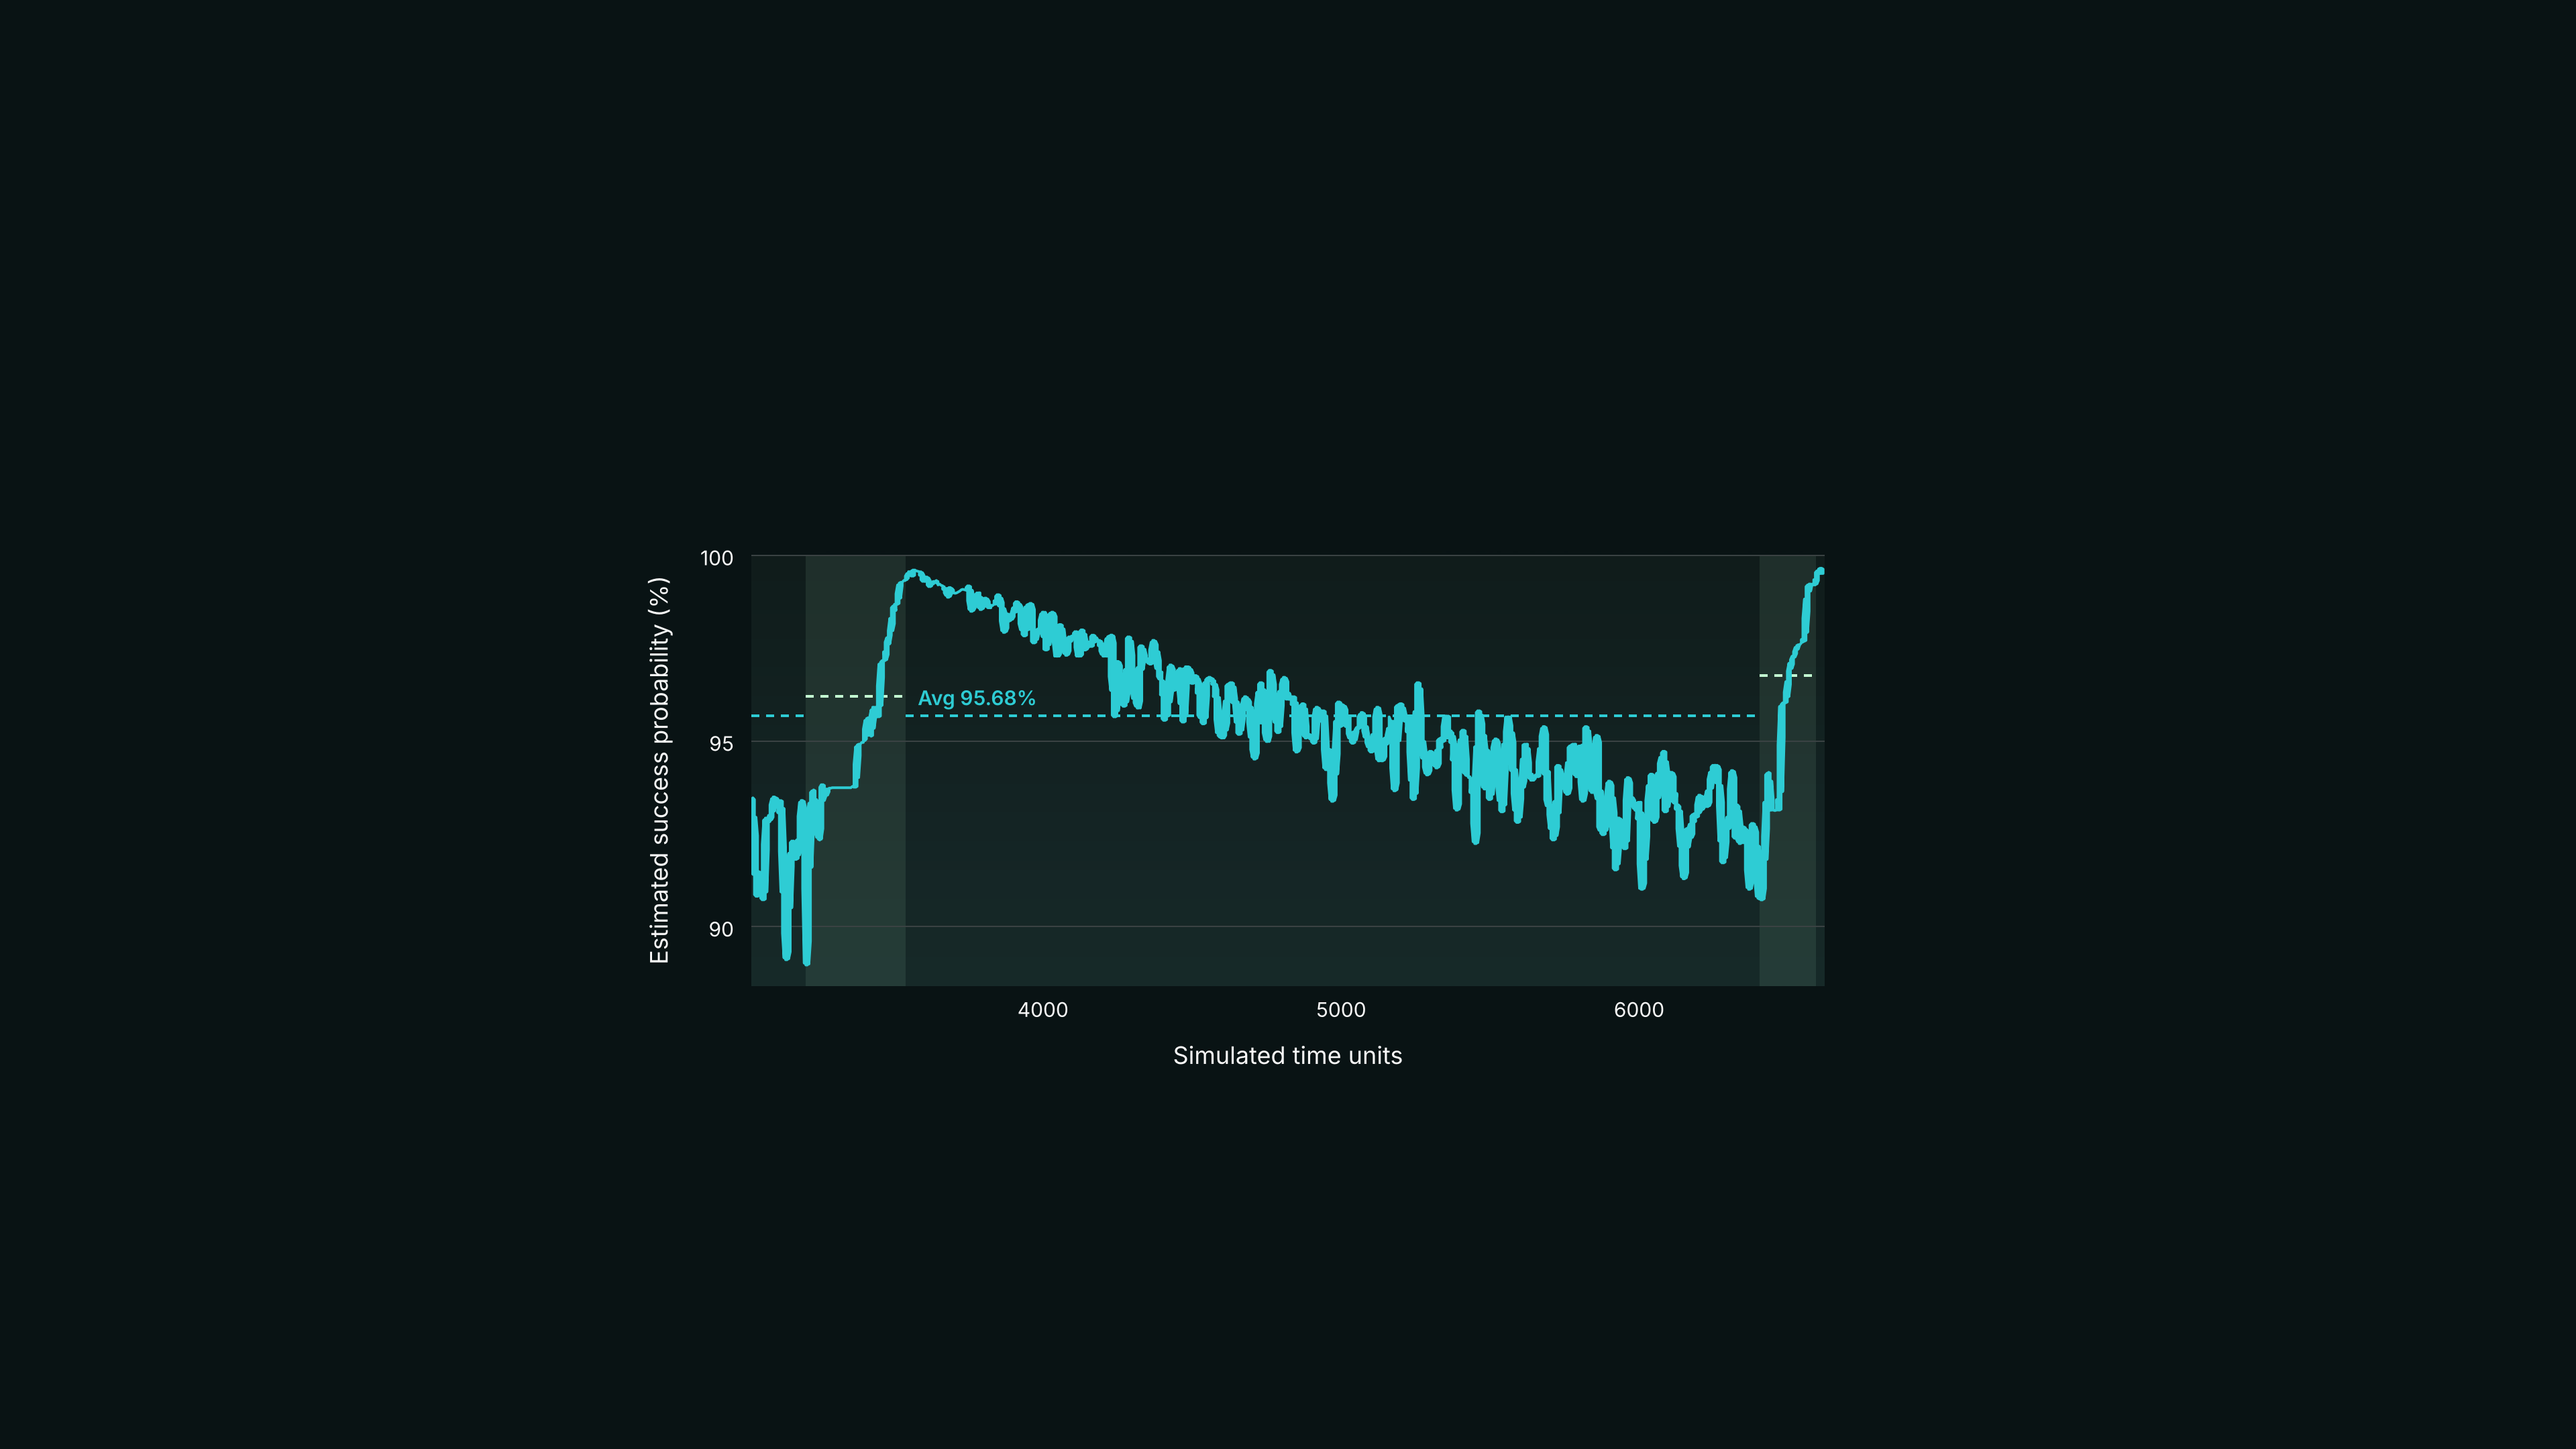
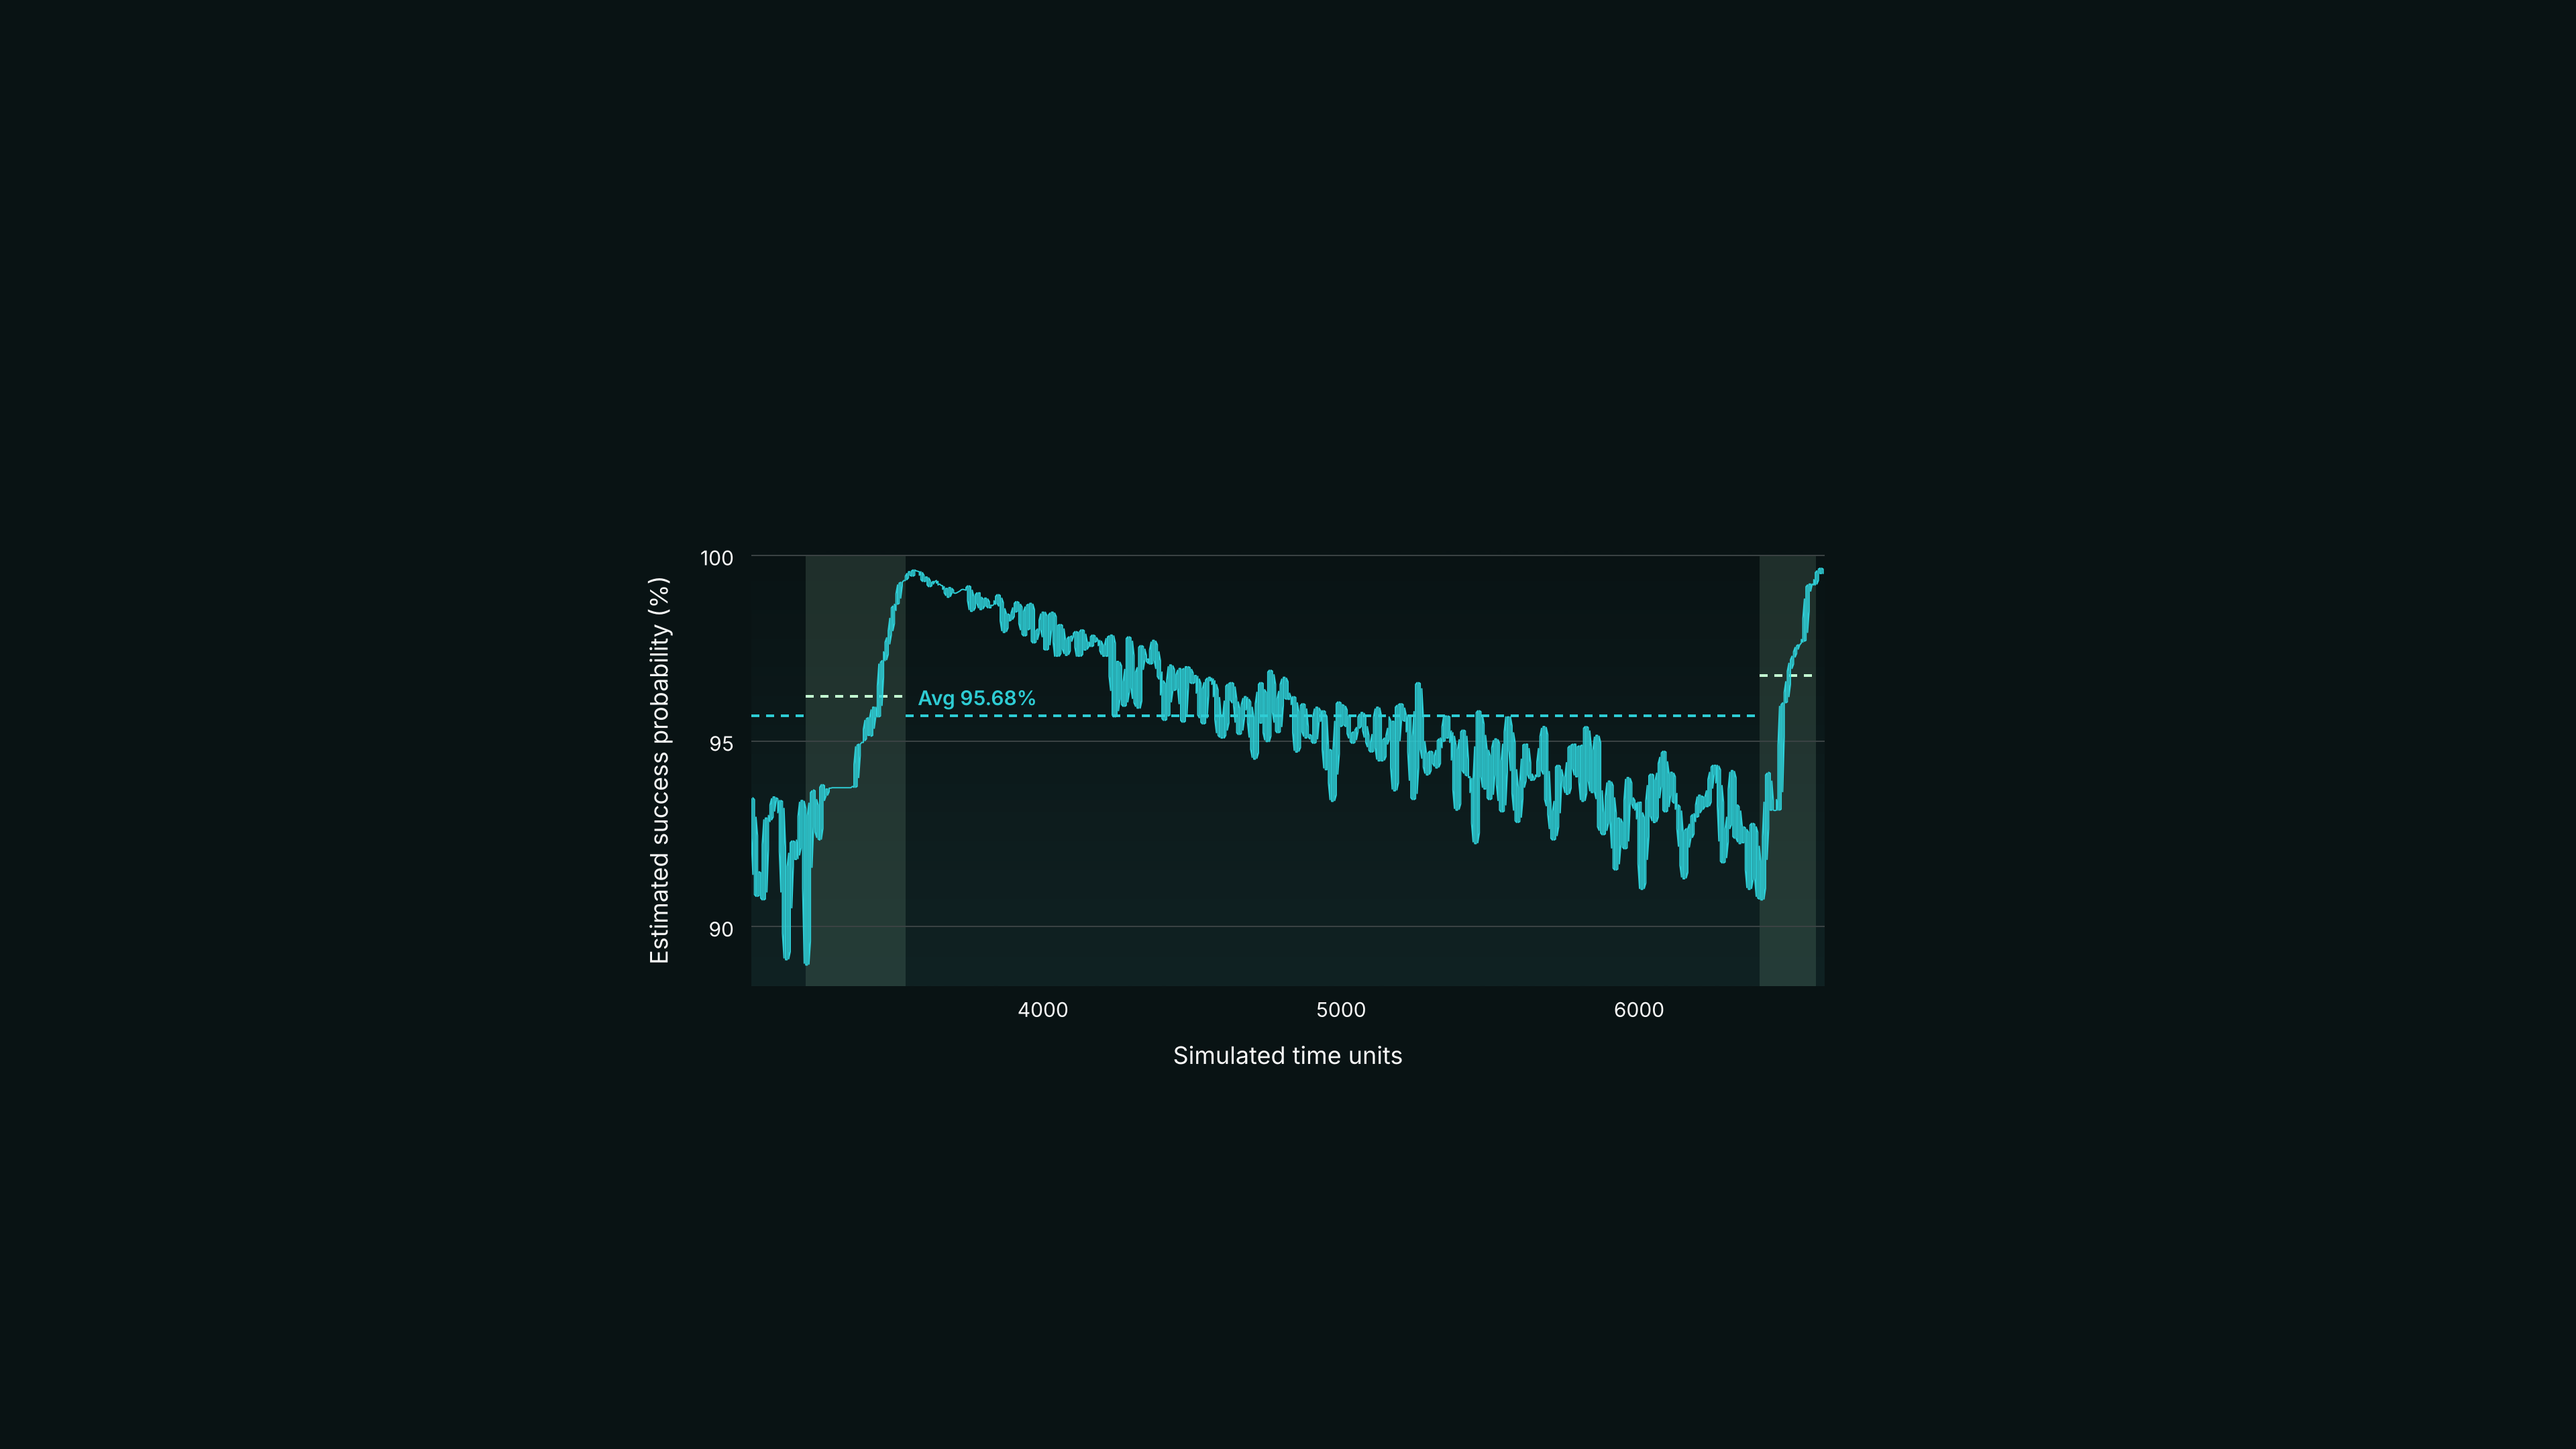
Success-probability slide: pure backdrop gradient and a 1 px line
The normal-operation periods are no longer tinted, so the plot shows the
#091314 to #102223 backdrop gradient; only the calibration windows are
tinted. The measured line is 1 px (SERIES_WIDTH). Notebook cells now
carry ids.

Claude-Session: https://claude.ai/code/session_01USvV18rvpFmf11Yj2u5qew

Changed region(s): [[0.4062, 0.4343, 0.6875, 0.6204], [0.2812, 0.5583, 0.3125, 0.6204], [0.375, 0.4032, 0.4062, 0.4343]]

diff --git a/notebooks/hzero_charts/__init__.py b/notebooks/hzero_charts/__init__.py
@@ -87,7 +87,7 @@ THEMES["light"]["colors"].update({
     "avg_run": "#446455", "avg_calibrate": "#D4A359",
 })
 COLORS.update(THEMES["light"]["colors"])
-BAND_ALPHA = {"run": 0.04, "calibrate": 0.12}
+BAND_ALPHA = {"run": 0.0, "calibrate": 0.12}   # "run" is the normal state: no tint, the backdrop shows
 DASH = (6, 5)                      # dashed average lines: dash, gap, px
 
 BAR_ORDER = ["sage", "green"]      # stack order, bottom first
@@ -103,6 +103,7 @@ CAT_PITCH = 15.4                   # line pitch of two-line category labels, px
 TITLE_GAP = 22                     # widest tick label to axis title (ink to ink), px
 _TITLE_GAP_BOX = 20                # the same gap measured between matplotlib text boxes
 LINE_WIDTH = 2                     # px
+SERIES_WIDTH = 1                   # px, the measured line in series_chart
 MARKER_R = 3                       # px
 WEB_PADDING = 48                   # px around the chart in the web export
 
@@ -305,13 +306,15 @@ def series_chart(x: Sequence[float], y: Sequence[float], x_ticks: Sequence[float
     ax.set_xticks([])
     span_top = (top - y_bottom) / (ax.get_ylim()[1] - y_bottom)     # bands stop at the top gridline
     for i, (kind, b0, b1) in enumerate(bands):
+        if BAND_ALPHA[kind] == 0:
+            continue
         ax.axvspan(b0, b1, ymin=0, ymax=span_top, color=COLORS[f"band_{kind}"], alpha=BAND_ALPHA[kind],
                    linewidth=0, zorder=Z["backdrop"] + 0.5, gid=f"hz-band-{i}")
     _grid(ax, y_ticks)
     for i, (kind, a0, a1, v) in enumerate(averages):
         ax.plot([a0, a1], [v, v], color=COLORS[f"avg_{kind}"], linewidth=LINE_WIDTH * PT, zorder=Z["lines"],
                 dashes=(DASH[0] / LINE_WIDTH, DASH[1] / LINE_WIDTH), solid_capstyle="butt", gid=f"hz-avg-{i}")
-    ax.plot(x, y, color=COLORS["series"], linewidth=LINE_WIDTH * PT, zorder=Z["lines"] + 0.5,
+    ax.plot(x, y, color=COLORS["series"], linewidth=SERIES_WIDTH * PT, zorder=Z["lines"] + 0.5,
             solid_joinstyle="round", solid_capstyle="round", gid="hz-line-0")
     if label:
         text, lx, lv = label
